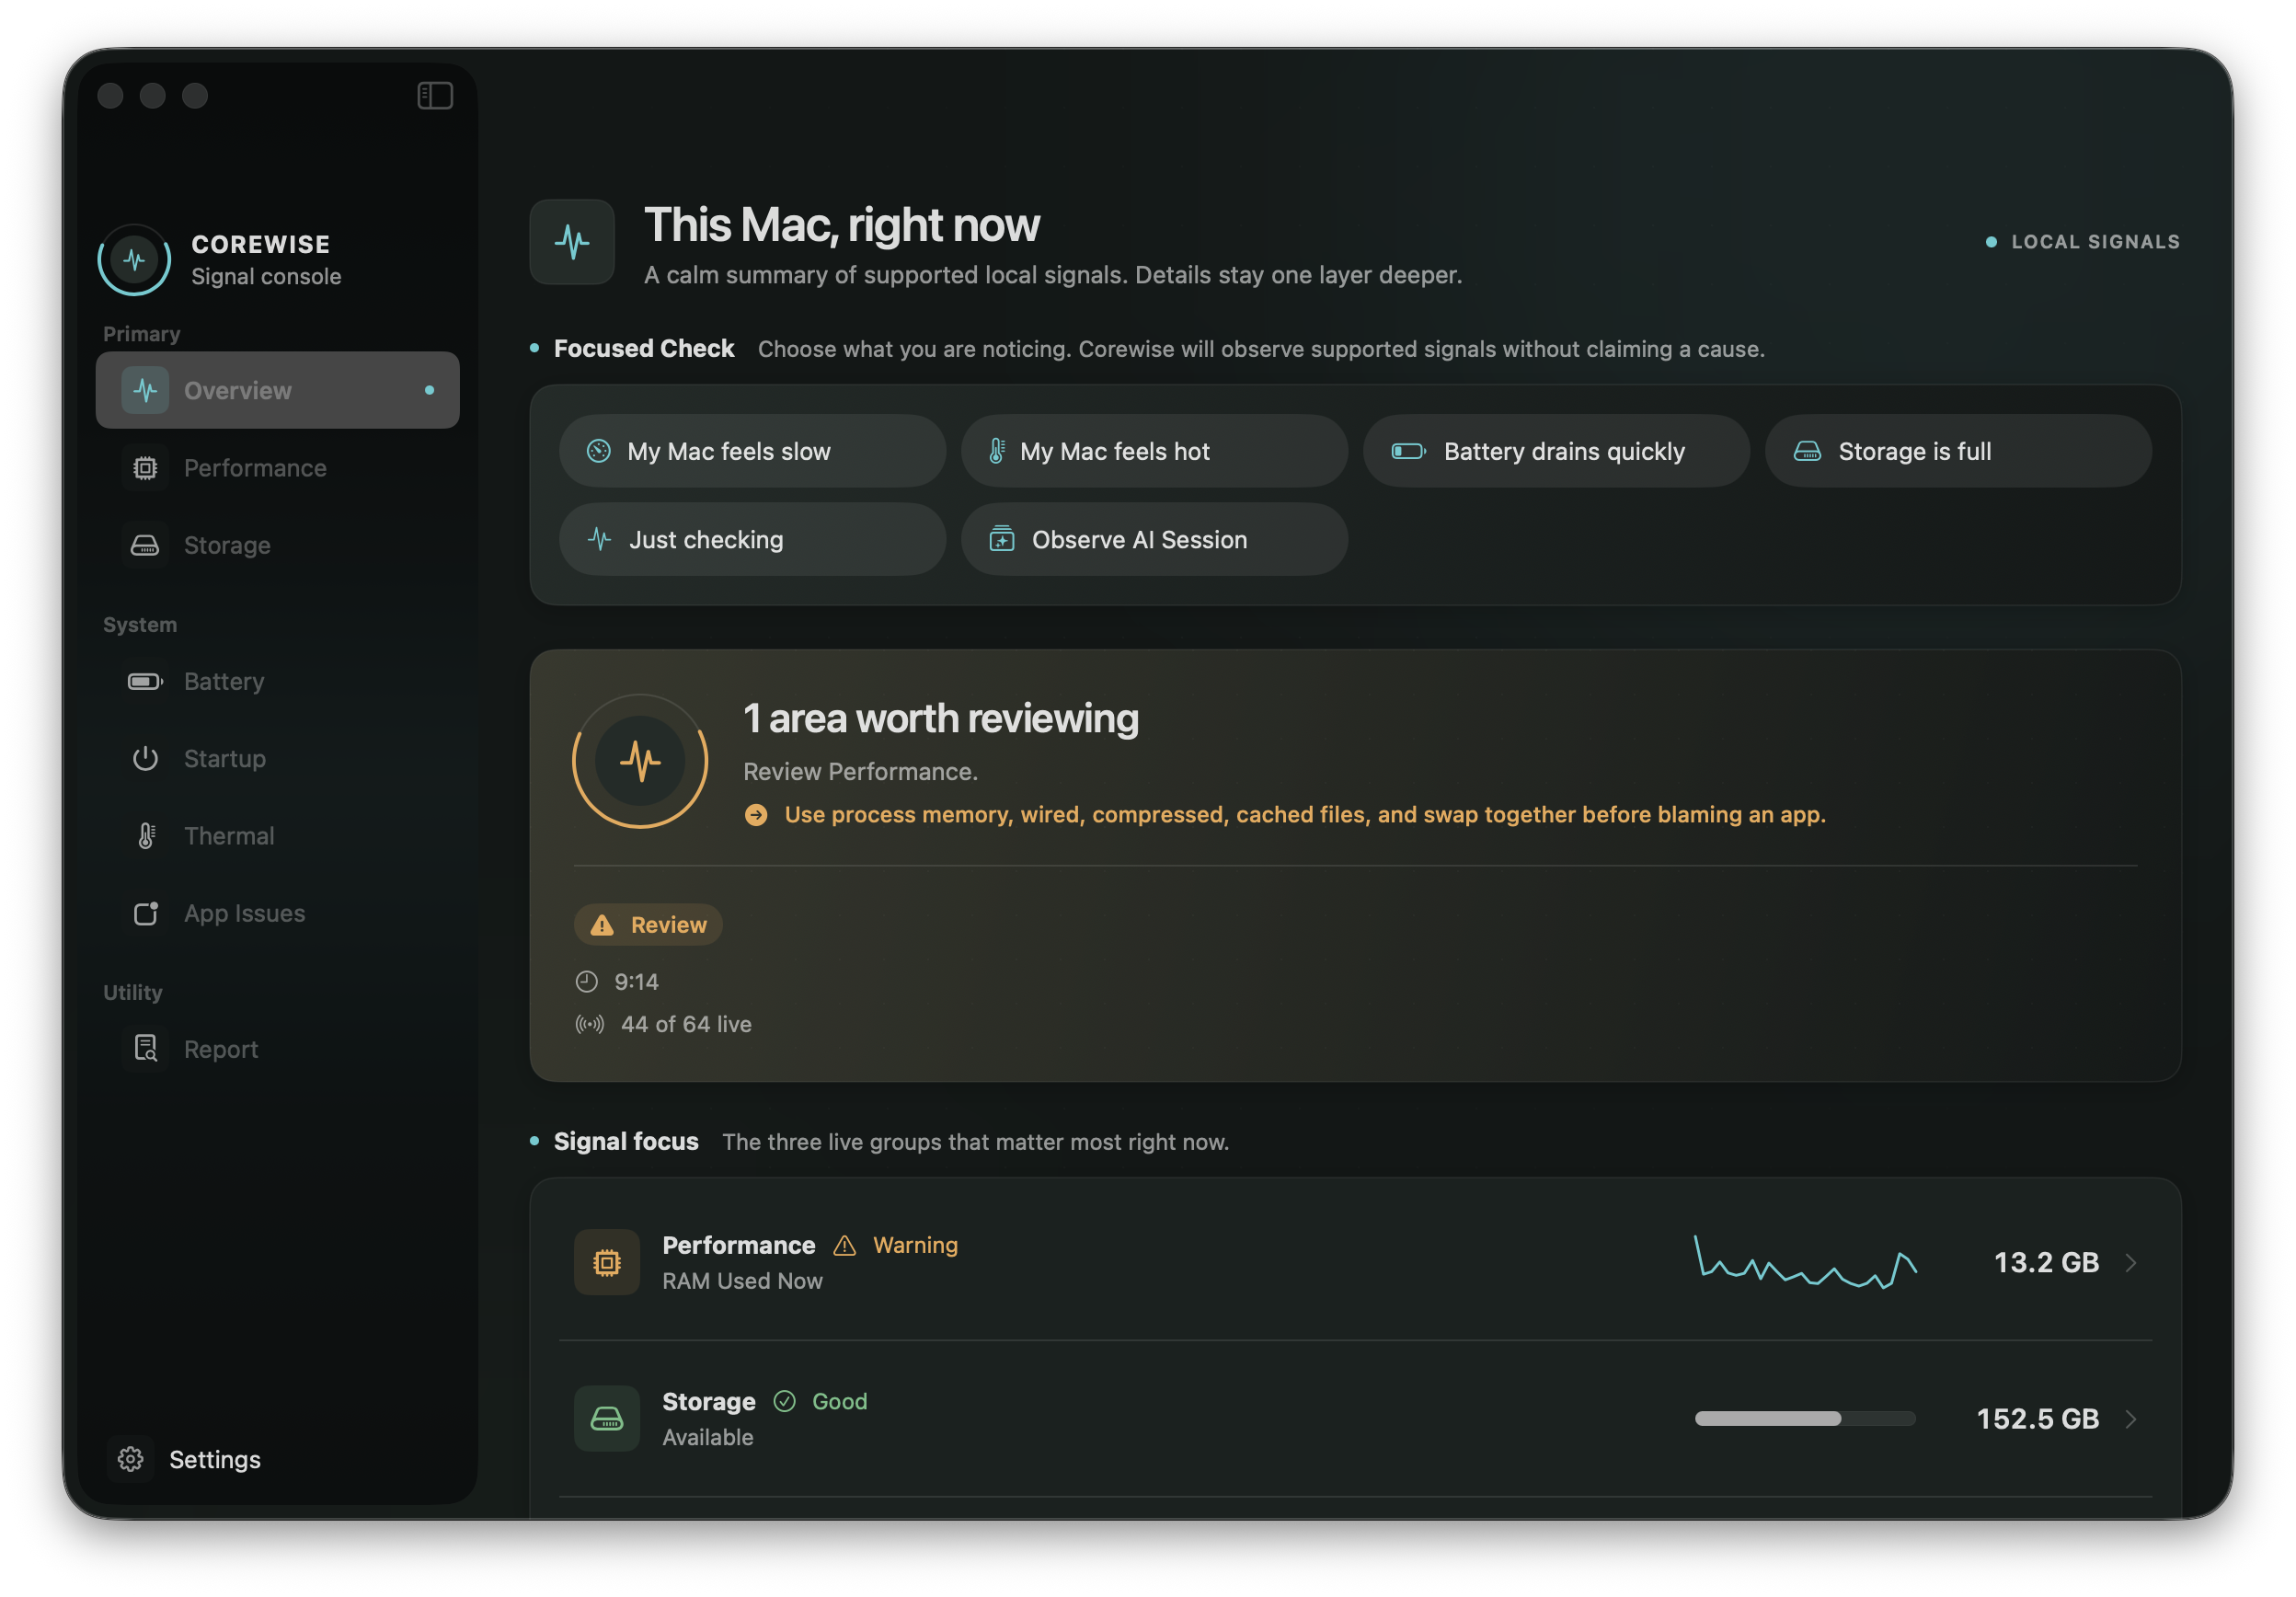
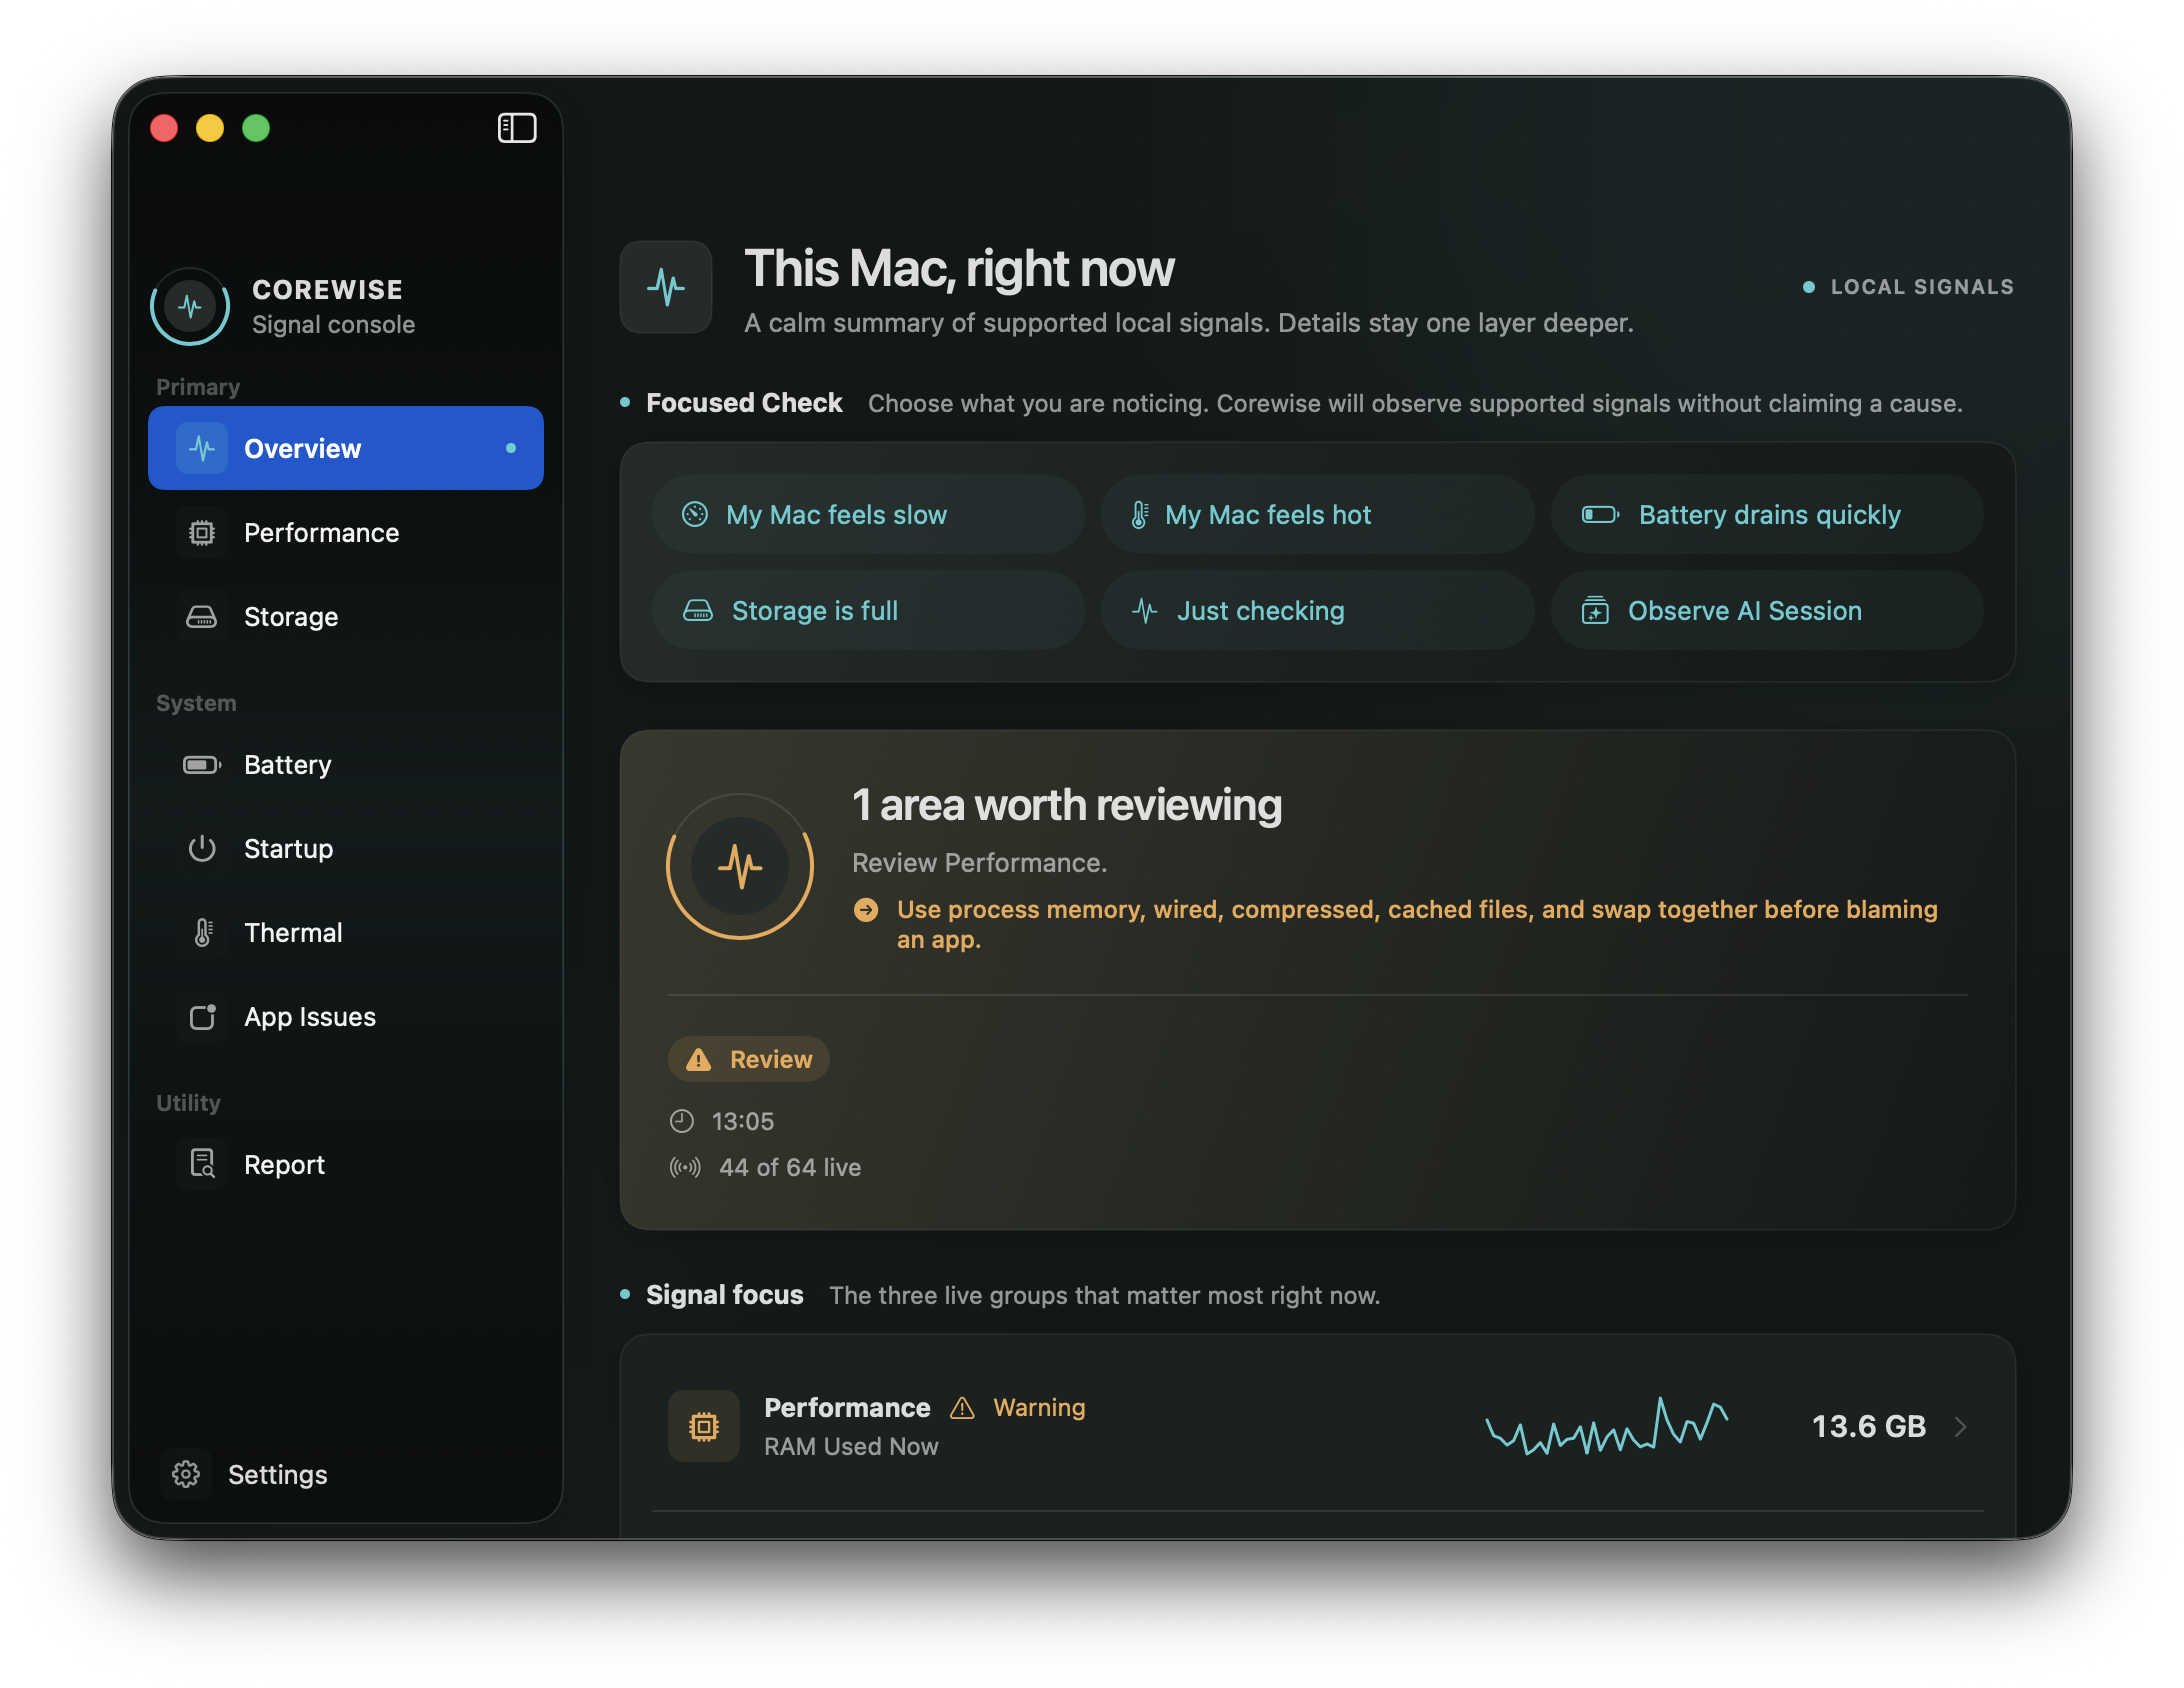
Polish public GitHub presence

diff --git a/script/generate_social_preview.swift b/script/generate_social_preview.swift
@@ -1,0 +1,205 @@
+#!/usr/bin/env swift
+
+import AppKit
+
+private let canvasSize = NSSize(width: 1_280, height: 640)
+
+private func color(_ hex: UInt32, alpha: CGFloat = 1) -> NSColor {
+    NSColor(
+        red: CGFloat((hex >> 16) & 0xff) / 255,
+        green: CGFloat((hex >> 8) & 0xff) / 255,
+        blue: CGFloat(hex & 0xff) / 255,
+        alpha: alpha
+    )
+}
+
+private func drawText(
+    _ text: String,
+    in rect: NSRect,
+    font: NSFont,
+    color: NSColor,
+    lineHeight: CGFloat? = nil
+) {
+    let paragraph = NSMutableParagraphStyle()
+    paragraph.lineBreakMode = .byWordWrapping
+    if let lineHeight {
+        paragraph.minimumLineHeight = lineHeight
+        paragraph.maximumLineHeight = lineHeight
+    }
+
+    text.draw(
+        in: rect,
+        withAttributes: [
+            .font: font,
+            .foregroundColor: color,
+            .paragraphStyle: paragraph,
+        ]
+    )
+}
+
+private func drawSignalField() {
+    let accent = color(0x55D6D9)
+
+    for index in 0..<6 {
+        let path = NSBezierPath()
+        path.lineWidth = index == 2 ? 2 : 1
+        let baseY = CGFloat(80 + index * 92)
+        path.move(to: NSPoint(x: 0, y: baseY))
+
+        for x in stride(from: CGFloat(0), through: canvasSize.width, by: 16) {
+            let wave = sin((x / 72) + CGFloat(index) * 0.8) * CGFloat(8 + index * 2)
+            let pulse = exp(-pow((x - 470) / 115, 2)) * sin(x / 13) * 30
+            path.line(to: NSPoint(x: x, y: baseY + wave + pulse))
+        }
+
+        accent.withAlphaComponent(index == 2 ? 0.16 : 0.055).setStroke()
+        path.stroke()
+    }
+
+    for x in stride(from: CGFloat(44), through: canvasSize.width, by: 84) {
+        color(0x9FE9E8, alpha: 0.055).setFill()
+        NSBezierPath(ovalIn: NSRect(x: x, y: 30, width: 2, height: 2)).fill()
+    }
+}
+
+private func drawBadge(_ text: String, x: CGFloat, width: CGFloat) {
+    let rect = NSRect(x: x, y: 72, width: width, height: 40)
+    let shape = NSBezierPath(roundedRect: rect, xRadius: 12, yRadius: 12)
+    color(0x55D6D9, alpha: 0.09).setFill()
+    shape.fill()
+    color(0x55D6D9, alpha: 0.24).setStroke()
+    shape.lineWidth = 1
+    shape.stroke()
+
+    drawText(
+        text,
+        in: NSRect(x: x + 15, y: 80, width: width - 30, height: 24),
+        font: .systemFont(ofSize: 15, weight: .semibold),
+        color: color(0xA9C3C2)
+    )
+}
+
+let arguments = CommandLine.arguments
+guard arguments.count == 3 else {
+    FileHandle.standardError.write(
+        Data("Usage: swift script/generate_social_preview.swift <overview.png> <output.jpg>\n".utf8)
+    )
+    exit(64)
+}
+
+guard let screenshot = NSImage(contentsOfFile: arguments[1]) else {
+    FileHandle.standardError.write(Data("Unable to read overview screenshot.\n".utf8))
+    exit(66)
+}
+
+guard
+    let bitmap = NSBitmapImageRep(
+        bitmapDataPlanes: nil,
+        pixelsWide: Int(canvasSize.width),
+        pixelsHigh: Int(canvasSize.height),
+        bitsPerSample: 8,
+        samplesPerPixel: 4,
+        hasAlpha: true,
+        isPlanar: false,
+        colorSpaceName: .deviceRGB,
+        bytesPerRow: 0,
+        bitsPerPixel: 0
+    ),
+    let context = NSGraphicsContext(bitmapImageRep: bitmap)
+else {
+    FileHandle.standardError.write(Data("Unable to create social preview canvas.\n".utf8))
+    exit(70)
+}
+
+NSGraphicsContext.saveGraphicsState()
+NSGraphicsContext.current = context
+context.imageInterpolation = .high
+
+NSGradient(
+    starting: color(0x061011),
+    ending: color(0x102322)
+)?.draw(in: NSRect(origin: .zero, size: canvasSize), angle: 0)
+
+drawSignalField()
+
+let glow = NSBezierPath(ovalIn: NSRect(x: 420, y: 130, width: 620, height: 620))
+color(0x55D6D9, alpha: 0.045).setFill()
+glow.fill()
+
+let screenshotRect = NSRect(x: 590, y: 62, width: 780, height: 542)
+NSGraphicsContext.saveGraphicsState()
+let shadow = NSShadow()
+shadow.shadowColor = color(0x000000, alpha: 0.7)
+shadow.shadowBlurRadius = 32
+shadow.shadowOffset = NSSize(width: 0, height: -14)
+shadow.set()
+let screenshotFrame = NSBezierPath(roundedRect: screenshotRect, xRadius: 25, yRadius: 25)
+color(0x071011).setFill()
+screenshotFrame.fill()
+NSGraphicsContext.restoreGraphicsState()
+
+NSGraphicsContext.saveGraphicsState()
+screenshotFrame.addClip()
+screenshot.draw(
+    in: screenshotRect,
+    from: NSRect(origin: .zero, size: screenshot.size),
+    operation: .sourceOver,
+    fraction: 1,
+    respectFlipped: true,
+    hints: [.interpolation: NSImageInterpolation.high]
+)
+NSGraphicsContext.restoreGraphicsState()
+
+color(0x7AE3E3, alpha: 0.27).setStroke()
+screenshotFrame.lineWidth = 1
+screenshotFrame.stroke()
+
+let accentLine = NSBezierPath()
+accentLine.lineWidth = 3
+accentLine.move(to: NSPoint(x: 72, y: 566))
+accentLine.line(to: NSPoint(x: 156, y: 566))
+color(0x55D6D9).setStroke()
+accentLine.stroke()
+
+drawText(
+    "COREWISE  /  LOCAL SIGNAL CONSOLE",
+    in: NSRect(x: 72, y: 526, width: 460, height: 28),
+    font: .systemFont(ofSize: 16, weight: .bold),
+    color: color(0x80DCDD)
+)
+
+drawText(
+    "Know what your Mac is really doing.",
+    in: NSRect(x: 68, y: 278, width: 485, height: 225),
+    font: .systemFont(ofSize: 58, weight: .semibold),
+    color: color(0xF3F7F6),
+    lineHeight: 64
+)
+
+drawText(
+    "Local-first diagnostics for performance, storage, and AI workloads.",
+    in: NSRect(x: 72, y: 154, width: 440, height: 82),
+    font: .systemFont(ofSize: 22, weight: .regular),
+    color: color(0xA9B9B8),
+    lineHeight: 30
+)
+
+drawBadge("macOS 14+", x: 72, width: 125)
+drawBadge("Open source", x: 211, width: 145)
+drawBadge("Local by design", x: 370, width: 164)
+
+NSGraphicsContext.restoreGraphicsState()
+
+guard
+    let data = bitmap.representation(using: .jpeg, properties: [.compressionFactor: 0.88])
+else {
+    FileHandle.standardError.write(Data("Unable to render social preview.\n".utf8))
+    exit(70)
+}
+
+do {
+    try data.write(to: URL(fileURLWithPath: arguments[2]), options: .atomic)
+} catch {
+    FileHandle.standardError.write(Data("Unable to write social preview: \(error)\n".utf8))
+    exit(74)
+}

diff --git a/docs/RELEASE_NOTES_0.1.0_BETA_2.md b/docs/RELEASE_NOTES_0.1.0_BETA_2.md
@@ -1,0 +1,47 @@
+![Corewise — local-first macOS diagnostics](https://raw.githubusercontent.com/roccodaffuso/Corewise/main/docs/assets/corewise-social-preview.jpg)
+
+# Corewise 0.1.0 beta 2
+
+Corewise is a free, open-source macOS 14+ utility for understanding performance, storage, and attributable local AI workloads without uploading diagnostics.
+
+**[Download the signed and notarized universal DMG](https://github.com/roccodaffuso/Corewise/releases/download/v0.1.0-beta.2/Corewise-0.1.0-universal.dmg)**
+
+## What you can explore
+
+- **Focused Check** — observe supported signals when your Mac feels slow, hot, battery-hungry, or full.
+- **Performance** — inspect CPU, memory context, swap, and live process evidence as distinct views.
+- **AI Workloads** — separate attributable app footprint, related local work, and shared hosts for supported tools such as Codex, Claude, Cursor, and Ollama.
+- **Storage** — see startup-volume headroom and start an explicit read-only analysis with optional reusable Full Disk Access.
+- **Local reports** — copy a cautious summary or Markdown report without uploading diagnostic data.
+
+<table>
+  <tr>
+    <td width="50%"><img src="https://raw.githubusercontent.com/roccodaffuso/Corewise/main/docs/assets/corewise-overview.png" alt="Corewise Overview"></td>
+    <td width="50%"><img src="https://raw.githubusercontent.com/roccodaffuso/Corewise/main/docs/assets/corewise-ai-workloads.png" alt="Corewise AI Workloads"></td>
+  </tr>
+</table>
+
+## Beta 2 fix
+
+`⌘K` now reliably places keyboard focus in Quick Actions search before keyboard routing begins.
+
+## Privacy and limits
+
+- No account, telemetry, backend, analytics, or network collection.
+- Full Disk Access is optional and used only for a user-started read-only Storage analysis.
+- AI Workloads observes attributable local processes only. Cloud activity and logical agent counts are outside coverage.
+- Corewise does not kill processes, delete files, or claim that one number represents Mac health.
+
+## Install
+
+1. Download `Corewise-0.1.0-universal.dmg` below.
+2. Open the DMG and drag Corewise into Applications.
+3. Open Corewise normally. The app is signed with Developer ID and notarized by Apple.
+
+SHA-256:
+
+```text
[1 lines of base64/hex data omitted]
+```
+
+[Website](https://corewise.dev) · [Source](https://github.com/roccodaffuso/Corewise) · [MPL-2.0](https://github.com/roccodaffuso/Corewise/blob/main/LICENSE) · [Security](https://github.com/roccodaffuso/Corewise/security/policy) · [Report an issue](https://github.com/roccodaffuso/Corewise/issues/new/choose)

diff --git a/README.md b/README.md
@@ -9,6 +9,12 @@
 </p>
 
 <p align="center">
+  <a href="https://corewise.dev">Website</a> ·
+  <a href="https://github.com/roccodaffuso/Corewise/releases/tag/v0.1.0-beta.2">Download beta</a> ·
+  <a href="https://github.com/roccodaffuso/Corewise/issues/new/choose">Report an issue</a>
+</p>
+
+<p align="center">
   <img alt="macOS 14+" src="https://img.shields.io/badge/macOS-14%2B-1f6feb?style=flat-square">
   <img alt="Swift 5.9+" src="https://img.shields.io/badge/Swift-5.9%2B-f05138?style=flat-square">
   <img alt="License MPL-2.0" src="https://img.shields.io/badge/License-MPL--2.0-7d5fff?style=flat-square">
@@ -23,6 +29,10 @@ No account. No backend. No analytics. No automatic cleanup.
 > [!IMPORTANT]
 > Corewise is now available as a public beta. Download the signed, notarized universal DMG from [GitHub Releases](https://github.com/roccodaffuso/Corewise/releases/tag/v0.1.0-beta.2). GitHub's automatic “Source code” archives are not installable app downloads.
 
+<p align="center">
+  <img src="docs/assets/corewise-overview.png" alt="Corewise Overview showing Focused Check, a cautious attention summary, and live local signals">
+</p>
+
 ## What Corewise does
 
 - **Focused Check** observes supported local signals when a Mac feels slow, hot, battery-hungry, or full, then returns a cautious explanation and one useful next step.
@@ -33,6 +43,23 @@ No account. No backend. No analytics. No automatic cleanup.
 - **Local reports** copy a plain-language Summary or Markdown report without uploading files, stack traces, prompts, or project details.
 
 Corewise deliberately avoids health scores, process killing, automatic deletion, private sensor APIs, hidden folder scans, and claims of exact parity with Activity Monitor.
+
+## Product tour
+
+<table>
+  <tr>
+    <td width="50%">
+      <img src="docs/assets/corewise-ai-workloads.png" alt="Corewise AI Workloads observing attributable local Codex and Claude activity">
+    </td>
+    <td width="50%">
+      <img src="docs/assets/corewise-storage.png" alt="Corewise Storage showing startup-volume headroom and read-only analysis access">
+    </td>
+  </tr>
+  <tr>
+    <td><strong>AI Workloads</strong><br>Separate direct app footprint, related local work, and shared hosts without pretending to count cloud agents.</td>
+    <td><strong>Storage</strong><br>See volume headroom first, then start an explicit read-only analysis with reusable permission.</td>
+  </tr>
+</table>
 
 ## Install the public beta
 

diff --git a/docs/PUBLIC_RELEASE_AUDIT.md b/docs/PUBLIC_RELEASE_AUDIT.md
@@ -30,9 +30,19 @@ GitHub secret scanning, push protection, and private vulnerability reporting are
 
 `Package.swift` declares no third-party package dependencies. Corewise uses Swift, SwiftUI, AppKit/macOS frameworks, and repository-owned source only. There is no third-party notices bundle required for the current app.
 
-The application icon is repository-owned and reproducibly generated by `script/generate_app_icon.swift`. `Sources/Corewise/Resources/Corewise.icns` is the packaged icon and `docs/assets/corewise-app-icon.png` is its public preview. The design-audit screenshot is produced from Corewise itself and contains no third-party artwork.
+The application icon is repository-owned and reproducibly generated by `script/generate_app_icon.swift`. `Sources/Corewise/Resources/Corewise.icns` is the packaged icon and `docs/assets/corewise-app-icon.png` is its public preview. Public screenshots are captured from Corewise itself and contain no third-party artwork. The repository social preview is composed from those repository-owned screenshots by `script/generate_social_preview.swift`; it introduces no external font, stock image, or generated-art dependency.
 
 Contributor Covenant text is adapted from version 2.1 with attribution in `CODE_OF_CONDUCT.md`.
+
+## GitHub public surface
+
+- Repository visibility is public; Issues are enabled and Discussions remain disabled.
+- `corewise.dev` is the configured repository homepage and GitHub Pages enforces HTTPS for the apex and `www` domains.
+- Secret scanning, push protection, and private vulnerability reporting are enabled.
+- Bug and feature-request forms use existing `bug` and `enhancement` labels, disable blank issues, and route vulnerabilities to the private advisory form.
+- GitHub recognizes MPL-2.0 from the default branch; `SECURITY.md`, `TRADEMARKS.md`, `CONTRIBUTING.md`, the Contributor Covenant, and the pull-request template are present.
+- Protected `main` requires the ARM64 and Intel Swift/DMG checks plus resolved conversations; force-push and branch deletion are disabled.
+- Account-level verification of `corewise.dev` remains a manual profile-settings step because the CLI token intentionally does not receive the broad `admin:org` scope.
 
 ## Distribution boundary
 